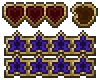
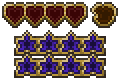
Increase life total to 4

diff --git a/Common/GameSystem/Drawing/PlayerStatRenderer.cs b/Common/GameSystem/Drawing/PlayerStatRenderer.cs
@@ -59,7 +59,7 @@ namespace TerraTCG.Common.GameSystem.Drawing
             // Townsfolk Mana
             {
                 float transparency = GetTransparency(0, player.Resources.TownsfolkMana, player.PrevResources.TownsfolkMana, lerpPoint);
-                var townsfolkOffset = new Vector2(84, 15);
+                var townsfolkOffset = new Vector2(106, 15);
                 var townsolkTexture = TextureCache.Instance.TownsfolkIcon.Value;
                 var townsfolkOrigin = new Vector2(townsolkTexture.Width, townsolkTexture.Height) / 2;
                 var townsfolkPos = position + townsfolkOffset * scale;
@@ -67,7 +67,7 @@ namespace TerraTCG.Common.GameSystem.Drawing
             }
 
             // Mana
-            var mpOffsets = new Vector2[] { new(17, 43), new(17, 65), new(17, 87) };
+            var mpOffsets = new Vector2[] { new(27, 43), new(27, 65), new(27, 87) };
             var mpSpacing = new Vector2(22, 0);
             var mpTexture = TextureCache.Instance.ManaIcon.Value;
             var mpOrigin = new Vector2(mpTexture.Width, mpTexture.Height) / 2;

diff --git a/Common/GameSystem/GameState/GamePlayer.cs b/Common/GameSystem/GameState/GamePlayer.cs
@@ -15,7 +15,7 @@ namespace TerraTCG.Common.GameSystem.GameState
 {
     internal class GamePlayer
     {
-        internal const int MAX_HEALTH = 3;
+        internal const int MAX_HEALTH = 4;
         internal const int MAX_MANA = 8;
         internal CardGame Game { get; set; } // back reference to the game this player belongs to
         internal CardCollection Hand { get; set; }
@@ -25,7 +25,7 @@ namespace TerraTCG.Common.GameSystem.GameState
 
         internal int ManaPerTurn { get; set; } = 0;
 
-        public PlayerResources _resources = new(3, 0, 0);
+        public PlayerResources _resources = new(MAX_HEALTH, 0, 0);
         public PlayerResources Resources { 
             get => _resources; 
             set
